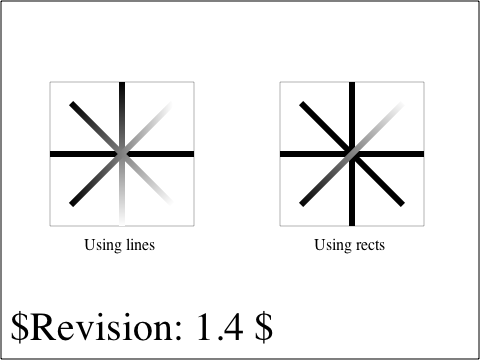
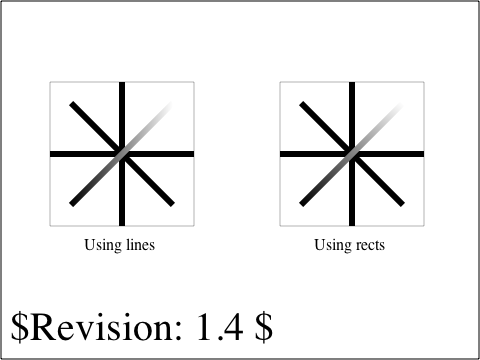
Reviewed by Eric.
http://bugs.webkit.org/show_bug.cgi?id=14157
        Rotated shape has wrong gradient rendering

        Use the untransformed bbox in objectBoundingBoxMode. Also
        don't do objectBoundingBoxMode should the bbox width ort height
        be zero.

git-svn-id: http://svn.webkit.org/repository/webkit/branches/feature-branch@23650 268f45cc-cd09-0410-ab3c-d52691b4dbfc

Changed region(s): [[0.1875, 0.275, 0.3438, 0.6417], [0.3438, 0.55, 0.375, 0.5806], [0.1562, 0.3056, 0.1875, 0.3361]]

diff --git a/WebCore/platform/graphics/svg/cg/SVGPaintServerGradientCg.cpp b/WebCore/platform/graphics/svg/cg/SVGPaintServerGradientCg.cpp
@@ -163,8 +163,8 @@ void SVGPaintServerGradient::teardown(GraphicsContext*& context, const RenderObj
 {
     CGShadingRef shading = m_shadingCache;
     CGContextRef contextRef = context->platformContext();
-    RenderStyle* style = object->style();
     ASSERT(contextRef);
+    RenderStyle* style = object->style();
 
     // As renderPath() is not used when painting text, special logic needed here.
     if (isPaintingText) {
@@ -213,8 +213,11 @@ void SVGPaintServerGradient::renderPath(GraphicsContext*& context, const RenderP
 
     // Compute destination object bounding box
     FloatRect objectBBox;
-    if (boundingBoxMode())
-        objectBBox = CGContextGetPathBoundingBox(contextRef);
+    if (boundingBoxMode()) {
+        FloatRect bbox = path->relativeBBox(false);
+        if (bbox.width() > 0 && bbox.height() > 0)
+            objectBBox = bbox;
+    }
 
     if ((type & ApplyToFillTargetType) && style->svgStyle()->hasFill())
         clipToFillPath(contextRef, path);
